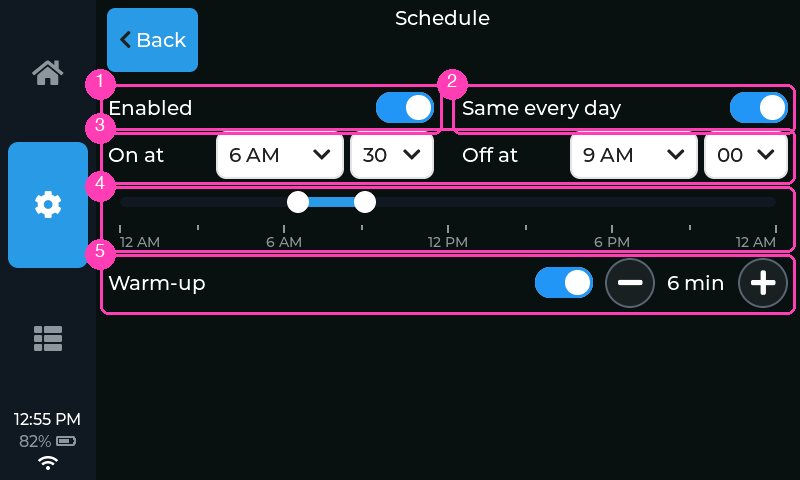
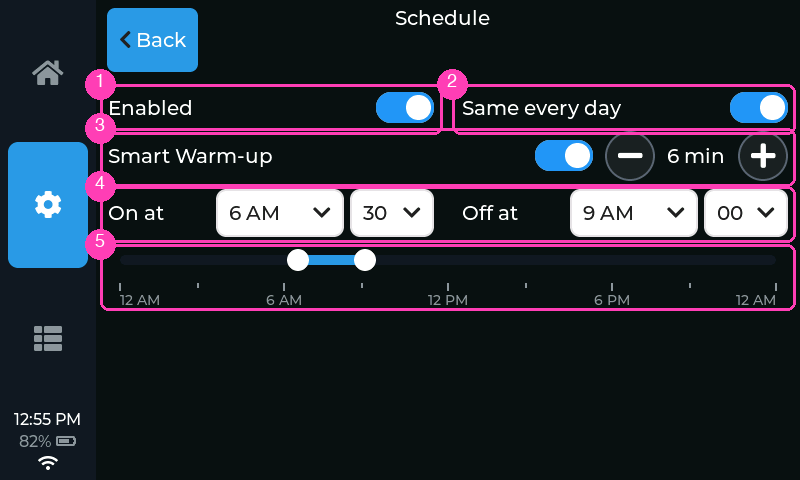
schedule: page feedback — global rows on top, tristate day chips
Bench feedback on the 4.3C (owner, 2026-09-22). The page mixed week-wide and
per-day controls, so the warm-up row (renamed "Smart Warm-up") moves above the
day chips with the two master switches: everything above the chips is the
week, everything below is the selected day. The per-day enable row is gone;
the chip does both jobs -- tap to select, tap the selected chip again to
switch that day off/on (outlined chip, grey name while off). "Enabled" off now
greys every other control, not just the gate. The "Copy times to" dropdown is
wider so the arrow clears "Wednesday". A new sim render covers the off state.

Changed region(s): [[0.0938, 0.2812, 1.0, 0.6562]]

diff --git a/src/ui/settings_tab.cpp b/src/ui/settings_tab.cpp
@@ -515,7 +515,28 @@ void build_micra_schedule_rows(lv_obj_t* page, const lv_font_t* font,
     out.sched_same_switch = make_switch(rb, btn_size);
   }
 
-  // [Mon][Tue]...[Sun]: which day the rows below edit. Equal widths, one line.
+  // Smart Warm-up [sw] [-] 6 min [+]: start early so the boilers are there on
+  // time. One setting for the week, hence above the per-day chips.
+  {
+    lv_obj_t* rw = make_setting_row(page, "Smart Warm-up", font);
+    lv_obj_t* grp = lv_obj_create(rw);
+    lv_obj_remove_style_all(grp);
+    lv_obj_remove_flag(grp, LV_OBJ_FLAG_SCROLLABLE);
+    lv_obj_set_size(grp, LV_SIZE_CONTENT, LV_SIZE_CONTENT);
+    lv_obj_set_flex_flow(grp, LV_FLEX_FLOW_ROW);
+    lv_obj_set_flex_align(grp, LV_FLEX_ALIGN_END, LV_FLEX_ALIGN_CENTER,
+                          LV_FLEX_ALIGN_CENTER);
+    lv_obj_set_style_pad_column(grp, ui::dp(12), 0);
+    out.sched_warm_switch = make_switch(grp, btn_size);
+    make_inline_stepper(grp, font, symbol_font, btn_size, &out.sched_warm_minus,
+                        &out.sched_warm_value, &out.sched_warm_plus, nullptr);
+    dim_when_disabled(out.sched_warm_minus);
+    dim_when_disabled(out.sched_warm_plus);
+    dim_when_disabled(out.sched_warm_value);
+  }
+
+  // [Mon][Tue]...[Sun]: which day the rows below edit (tap the selected one
+  // again to switch that day off/on). Equal widths, one line.
   {
     static const char* const kShort[7] = {"Mon", "Tue", "Wed", "Thu", "Fri", "Sat", "Sun"};
     static const char* const kTiny[7] = {"Mo", "Tu", "We", "Th", "Fr", "Sa", "Su"};
@@ -535,6 +556,11 @@ void build_micra_schedule_rows(lv_obj_t* page, const lv_font_t* font,
       lv_obj_set_height(chip, ui::dp(compact ? 30 : 40));
       lv_obj_set_style_pad_hor(chip, ui::dp(4), 0);
       lv_obj_set_style_bg_color(chip, lv_color_hex(ui::theme::card()), 0);
+      // The selected chip is outlined; App colors the outline/fill/text for
+      // the four states (selected x day on/off).
+      lv_obj_set_style_border_width(chip, ui::dp(2), 0);
+      lv_obj_set_style_border_color(chip, lv_color_hex(ui::theme::card()), 0);
+      lv_obj_set_style_border_opa(chip, LV_OPA_COVER, 0);
       dim_when_disabled(chip);
       lv_obj_t* l = lv_label_create(chip);
       lv_label_set_text(l, compact ? kTiny[d] : kShort[d]);
@@ -545,11 +571,6 @@ void build_micra_schedule_rows(lv_obj_t* page, const lv_font_t* font,
       out.sched_day_labels[d] = l;
     }
   }
-
-  // <Weekday> [sw]: the selected day takes part in the schedule.
-  out.sched_day_enable_row = make_setting_row(page, "Monday", font);
-  out.sched_day_enable_label = lv_obj_get_child(out.sched_day_enable_row, 0);
-  out.sched_day_enable_switch = make_switch(out.sched_day_enable_row, btn_size);
 
   // On at [hh][mm]      Off at [hh][mm]
   {
@@ -629,32 +650,13 @@ void build_micra_schedule_rows(lv_obj_t* page, const lv_font_t* font,
     }
   }
 
-  // Warm-up [sw] [-] 6 min [+]: start early so the boilers are there on time.
-  {
-    lv_obj_t* rw = make_setting_row(page, "Warm-up", font);
-    lv_obj_t* grp = lv_obj_create(rw);
-    lv_obj_remove_style_all(grp);
-    lv_obj_remove_flag(grp, LV_OBJ_FLAG_SCROLLABLE);
-    lv_obj_set_size(grp, LV_SIZE_CONTENT, LV_SIZE_CONTENT);
-    lv_obj_set_flex_flow(grp, LV_FLEX_FLOW_ROW);
-    lv_obj_set_flex_align(grp, LV_FLEX_ALIGN_END, LV_FLEX_ALIGN_CENTER,
-                          LV_FLEX_ALIGN_CENTER);
-    lv_obj_set_style_pad_column(grp, ui::dp(12), 0);
-    out.sched_warm_switch = make_switch(grp, btn_size);
-    make_inline_stepper(grp, font, symbol_font, btn_size, &out.sched_warm_minus,
-                        &out.sched_warm_value, &out.sched_warm_plus, nullptr);
-    dim_when_disabled(out.sched_warm_minus);
-    dim_when_disabled(out.sched_warm_plus);
-    dim_when_disabled(out.sched_warm_value);
-  }
-
   // Copy times to [All days v] [Copy]: the edited day's window onto another
   // day (or all of them). Per-day mode only; App shows/hides it.
   {
     out.sched_copy_row = make_setting_row(page, "Copy times to", font);
     lv_obj_t* grp = make_field_group(out.sched_copy_row);
     lv_obj_set_style_pad_column(grp, ui::dp(10), 0);
-    out.sched_copy_dd = make_field_dropdown(grp, font, ui::dp(compact ? 110 : 160), compact);
+    out.sched_copy_dd = make_field_dropdown(grp, font, ui::dp(compact ? 130 : 190), compact);
     lv_dropdown_set_options(out.sched_copy_dd,
                             "All days\nMonday\nTuesday\nWednesday\nThursday\nFriday"
                             "\nSaturday\nSunday");

diff --git a/src/ui/app.cpp b/src/ui/app.cpp
@@ -534,9 +534,6 @@ void on_sched_enable_switch(lv_event_t* e) {
 void on_sched_same_switch(lv_event_t* e) {
   static_cast<ui::App*>(lv_event_get_user_data(e))->set_schedule_same_daily(sw_checked(e));
 }
-void on_sched_day_enable_switch(lv_event_t* e) {
-  static_cast<ui::App*>(lv_event_get_user_data(e))->set_schedule_day_enabled(sw_checked(e));
-}
 void on_sched_warm_switch(lv_event_t* e) {
   static_cast<ui::App*>(lv_event_get_user_data(e))->set_schedule_warmup(sw_checked(e));
 }
@@ -1311,8 +1308,6 @@ void App::build(core::IMachine& machine, core::IProvisioner& provisioner,
     lv_obj_add_event_cb(settings_.sched_enable_switch, on_sched_enable_switch,
                         LV_EVENT_VALUE_CHANGED, this);
     lv_obj_add_event_cb(settings_.sched_same_switch, on_sched_same_switch,
-                        LV_EVENT_VALUE_CHANGED, this);
-    lv_obj_add_event_cb(settings_.sched_day_enable_switch, on_sched_day_enable_switch,
                         LV_EVENT_VALUE_CHANGED, this);
     lv_obj_add_event_cb(settings_.sched_warm_switch, on_sched_warm_switch,
                         LV_EVENT_VALUE_CHANGED, this);
@@ -4514,21 +4509,23 @@ void App::set_schedule_same_daily(bool on) {
   sync_schedule_controls();
 }
 
-void App::set_schedule_day_enabled(bool on) {
-  if (!schedule_cfg_.same_every_day) sched_edit_day().enabled = on;
-  schedule_commit();
-  sync_schedule_controls();
-}
-
 void App::set_schedule_warmup(bool on) {
   schedule_cfg_.warmup_enabled = on;
   schedule_commit();
   sync_schedule_controls();
 }
 
+// A chip tap selects that day for editing; a tap on the already-selected
+// chip toggles whether the day takes part (the chip reads muted while it
+// doesn't). One control, two questions, no extra row.
 void App::schedule_pick_day(int weekday) {
   if (weekday < 0 || weekday > 6) return;
-  settings_.sched_edit_day = weekday;  // UI state only, nothing to persist
+  if (weekday == settings_.sched_edit_day && !schedule_cfg_.same_every_day) {
+    schedule_cfg_.days[weekday].enabled = !schedule_cfg_.days[weekday].enabled;
+    schedule_commit();
+  } else {
+    settings_.sched_edit_day = weekday;  // UI state only, nothing to persist
+  }
   sync_schedule_controls();
 }
 
@@ -4663,18 +4660,19 @@ void App::sync_schedule_controls() {
 
   // Per-day mode: the chip strip + the selected day's own switch.
   set_hidden(s.sched_day_row, c.same_every_day);
-  set_hidden(s.sched_day_enable_row, c.same_every_day);
   set_hidden(s.sched_copy_row, c.same_every_day);
   const int edit = s.sched_edit_day;
   if (!c.same_every_day) {
+    // Selected: accent outline. Day on: accent fill (when selected) + normal
+    // text. Day off: card fill + muted text, so a selected-but-off day is an
+    // outlined chip with grey text.
     for (int d = 0; d < 7; ++d) {
       const bool sel = d == edit;
-      ui::set_bg_color(s.sched_day_chips[d], sel ? ui::theme::accent() : ui::theme::card());
-      ui::set_text_color(s.sched_day_labels[d],
-                         sel || c.days[d].enabled ? ui::theme::text() : ui::theme::muted());
+      const bool on = c.days[d].enabled;
+      ui::set_border_color(s.sched_day_chips[d], sel ? ui::theme::accent() : ui::theme::card());
+      ui::set_bg_color(s.sched_day_chips[d], sel && on ? ui::theme::accent() : ui::theme::card());
+      ui::set_text_color(s.sched_day_labels[d], on ? ui::theme::text() : ui::theme::muted());
     }
-    ui::set_text(s.sched_day_enable_label, kDayNames[edit]);
-    set_sw(s.sched_day_enable_switch, c.days[edit].enabled);
   }
 
   const core::DaySchedule& d = c.same_every_day ? c.daily : c.days[edit];
@@ -4724,10 +4722,11 @@ void App::sync_schedule_gate() {
 void App::apply_schedule_clickable() {
   ui::SettingsWidgets& s = settings_;
   if (s.sched_slider == nullptr) return;
-  const bool ok = schedule_gate_ == 3;
-  set_clickable(s.sched_enable_switch, ok);
+  // The gate greys everything; Enabled = off greys everything but itself.
+  const bool gate = schedule_gate_ == 3;
+  const bool ok = gate && schedule_cfg_.enabled;
+  set_clickable(s.sched_enable_switch, gate);
   set_clickable(s.sched_same_switch, ok);
-  set_clickable(s.sched_day_enable_switch, ok);
   set_clickable(s.sched_warm_switch, ok);
   for (lv_obj_t* chip : s.sched_day_chips) set_clickable(chip, ok);
   set_clickable(s.sched_on_hour_dd, ok);

diff --git a/include/ui/settings_tab.h b/include/ui/settings_tab.h
@@ -55,11 +55,9 @@ struct SettingsWidgets {
   lv_obj_t* sched_enable_switch = nullptr;     // master on/off
   lv_obj_t* sched_same_switch = nullptr;       // "Same every day"
   lv_obj_t* sched_day_row = nullptr;           // the Mon..Sun chip strip (hidden
-  lv_obj_t* sched_day_chips[7] = {};           // while Same every day is on)
-  lv_obj_t* sched_day_labels[7] = {};
-  lv_obj_t* sched_day_enable_row = nullptr;    // "<Weekday>  [switch]" (hidden likewise)
-  lv_obj_t* sched_day_enable_label = nullptr;
-  lv_obj_t* sched_day_enable_switch = nullptr;
+  lv_obj_t* sched_day_chips[7] = {};           // while Same every day is on). Tap
+  lv_obj_t* sched_day_labels[7] = {};          // selects; tap the selected chip
+                                               // again to toggle that day on/off
   lv_obj_t* sched_on_hour_dd = nullptr;        // On at / Off at: hour + 5-min dropdowns
   lv_obj_t* sched_on_min_dd = nullptr;
   lv_obj_t* sched_off_hour_dd = nullptr;

diff --git a/include/ui/app.h b/include/ui/app.h
@@ -143,9 +143,8 @@ class App {
   // refresh()). The page's controls all edit schedule_cfg_ and commit at once.
   void set_schedule_enabled(bool on);
   void set_schedule_same_daily(bool on);   // off seeds the seven days from the daily window
-  void set_schedule_day_enabled(bool on);  // the chip-selected day takes part
   void set_schedule_warmup(bool on);
-  void schedule_pick_day(int weekday);     // chip tap: which day the rows edit
+  void schedule_pick_day(int weekday);     // chip tap: select; again = toggle that day
   void schedule_time_select(bool off, bool hour, int idx);  // On at / Off at dropdowns
   void schedule_slider_changed();          // range-slider drag: mirror into the pickers
   void schedule_slider_released();         // ...and persist on release

diff --git a/src/sim/main.cpp b/src/sim/main.cpp
@@ -304,6 +304,11 @@ int main() {
   ok &= r({800, 480}, "renders/schedule_warn_modal_800x480.png", 1, ui::kSectionMicraSchedule);
   ok &= r({320, 240}, "renders/schedule_warn_modal_320x240.png", 1, ui::kSectionMicraSchedule);
   schedule.set_warning_dismissed(true);
+  // Enabled off: everything but the switch greys.
+  schedule.pose_daily();
+  schedule.pose_disabled();
+  ok &= r({800, 480}, "renders/micra_schedule_off_800x480.png", 1, ui::kSectionMicraSchedule);
+  schedule.pose_daily();
   // Gated: no trusted time, then no paired machine.
   network.set_synced(false);
   ok &= r({800, 480}, "renders/micra_schedule_nontp_800x480.png", 1, ui::kSectionMicraSchedule);

diff --git a/include/platform_host/fake_schedule.h b/include/platform_host/fake_schedule.h
@@ -29,6 +29,7 @@ class FakeSchedule : public core::ISchedule {
     }
     cfg_.days[2].enabled = false;
   }
+  void pose_disabled() { cfg_.enabled = false; }
   void set_warning_dismissed(bool on) { warned_ = on; }
 
  private:

diff --git a/MANUAL.md b/MANUAL.md
@@ -47,8 +47,8 @@ Settings
 │  ├─ Controls  — Wired paddle* · Chime melody* · Chime volume*
 │  │             · Brew Temperature · Steam Enable + Temperature
 │  ├─ Cleaning* — Auto flush · Flush delay · Backflush cleaning  → cleaning mode
-│  └─ Schedule  — Schedule · Same every day · day chips + per-day enable
-│                · On at / Off at · range slider · Warm-up
+│  └─ Schedule  — Enabled · Same every day · Smart Warm-up · day chips (tap again = day off)
+│                · On at / Off at · range slider · Copy times to
 ├─ Scale
 │  ├─ Bluetooth       — Scan · saved scale (Connect / Forget)
 │  ├─ Shot settings   — Target · Review hold · Detect lead-in · Smoothing
@@ -302,30 +302,31 @@ confuse. **OK** dismisses it until the next restart; **Don't show again**, for
 good.
 
 - ① **Enabled** *(default off)* — the master switch. Off keeps the times you
-  set.
+  set and greys out the rest of the page.
 - ② **Same every day** *(default on)* — one window for the whole week. Turn it
-  off for per‑day times: a row of day chips appears (below) and each day has
-  its own On at / Off at plus an enable switch, so a day can sit the schedule
-  out. **Turning it off copies the daily window onto all seven days** as the
-  starting point, so you only edit the days that differ.
-- ③ **On at / Off at** *(5‑minute steps; default 6:30 → 9:00)* — the window.
+  off for per‑day times: a row of day chips appears (below) and each day gets
+  its own On at / Off at. **Turning it off copies the daily window onto all
+  seven days** as the starting point, so you only edit the days that differ.
+- ③ **Smart Warm‑up** *(default on, 6 min; 0–30)* — starts the machine this
+  many minutes *before* On at, so the boilers are at temperature by the
+  scheduled time. One setting for the whole week, which is why it sits above
+  the day chips. A lead that reaches past midnight simply starts the evening
+  before.
+- ④ **On at / Off at** *(5‑minute steps; default 6:30 → 9:00)* — the window.
   Off is always later than On on the same day (a window never crosses
   midnight); moving one end past the other pushes the other along.
-- ④ **Slider** — the same window as a bar across the day, midnight at the
+- ⑤ **Slider** — the same window as a bar across the day, midnight at the
   left edge and 23:55 at the right, with an hour axis underneath (a tick every
   three hours, labelled at 6 AM, noon and 6 PM). Drag either end; the pickers
   follow, and vice versa.
-- ⑤ **Warm‑up** *(default on, 6 min; 0–30)* — starts the machine this many
-  minutes *before* On at, so the boilers are at temperature by the scheduled
-  time. One setting for every day. A lead that reaches past midnight simply
-  starts the evening before.
 
   <img src="docs/img/manual/micra-schedule-days.png" width="70%" alt="Per-day schedule">
 
-  ① the day chips pick which day the rows below edit (a greyed name is a day
-  that is switched off); ② that day's own enable switch; ③ **Copy times to**
-  copies the shown day's On at / Off at onto the picked day, or onto **All
-  days**, without touching any day's enable switch.
+  With **Same every day** off: ① the day chips pick which day the rows below
+  edit. **Tap the selected chip again to switch that day off** (its name goes
+  grey and the schedule skips it); tap once more to switch it back on. ② **Copy
+  times to** copies the shown day's On at / Off at onto the picked day, or onto
+  **All days**, without changing which days are switched on.
 
 How it behaves:
 
